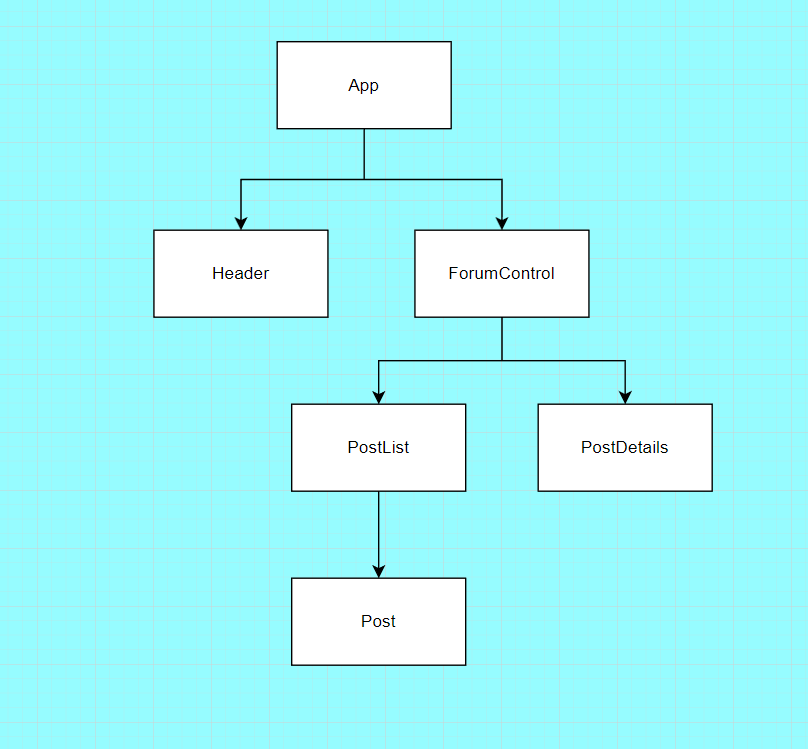
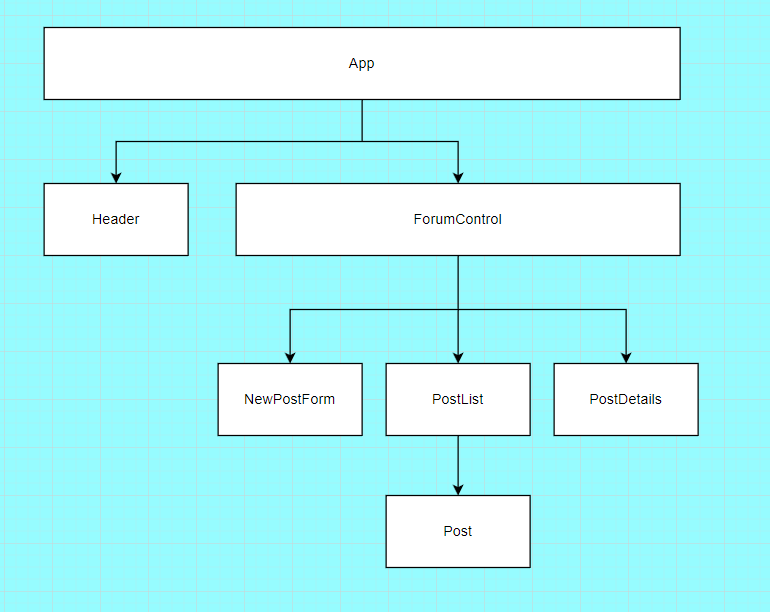
add base forumcontrol components and form toggle

diff --git a/src/components/ForumControl.js b/src/components/ForumControl.js
@@ -1,0 +1,44 @@
+import React from 'react';
+import NewPostForm from './NewPostForm';
+import PostList from './PostList';
+// import { connect } from 'react-redux';
+import PropTypes from 'prop-types';
+
+class ForumControl extends React.Component {
+  constructor(props) {
+    super(props);
+    this.state = {
+      selectedPost: null,
+      formVisibleOnPage: false,
+      mainPostList: []
+    };
+  }
+
+  handleClick = () => {
+    this.setState(prevState => ({
+      formVisibleOnPage: !prevState.formVisibleOnPage 
+    }));
+  }
+  
+  render() {
+    let currentlyVisibleState = null;
+    let buttonText
+
+    if (this.state.formVisibleOnPage) {
+      currentlyVisibleState = <NewPostForm/>;
+      buttonText = "Back";
+    } else {
+      currentlyVisibleState = <PostList postList={this.state.mainPostList} />
+      buttonText = "Create Post"
+    }
+
+    return (
+      <>
+      {currentlyVisibleState}
+      <button onClick={this.handleClick}>{buttonText}</button>
+      </>
+    )
+  }
+}
+
+export default ForumControl;

diff --git a/src/components/App.js b/src/components/App.js
@@ -1,10 +1,12 @@
 import React from "react";
 import Header from "./Header";
+import ForumControl from "./ForumControl";
 
 function App() {
   return (
     <>
       <Header />
+      <ForumControl />
     </>
   );
 }

diff --git a/src/components/PostList.js b/src/components/PostList.js
@@ -1,0 +1,11 @@
+import React from "react";
+
+function PostList(props) {
+  return (
+    <h3>PostList placeholder</h3>
+  );
+}
+
+
+
+export default PostList;

diff --git a/src/components/NewPostForm.js b/src/components/NewPostForm.js
@@ -1,0 +1,9 @@
+import React from "react";
+
+function NewPostForm() {
+  return (
+    <h3>Form placeholder</h3>
+  );
+}
+
+export default NewPostForm;
